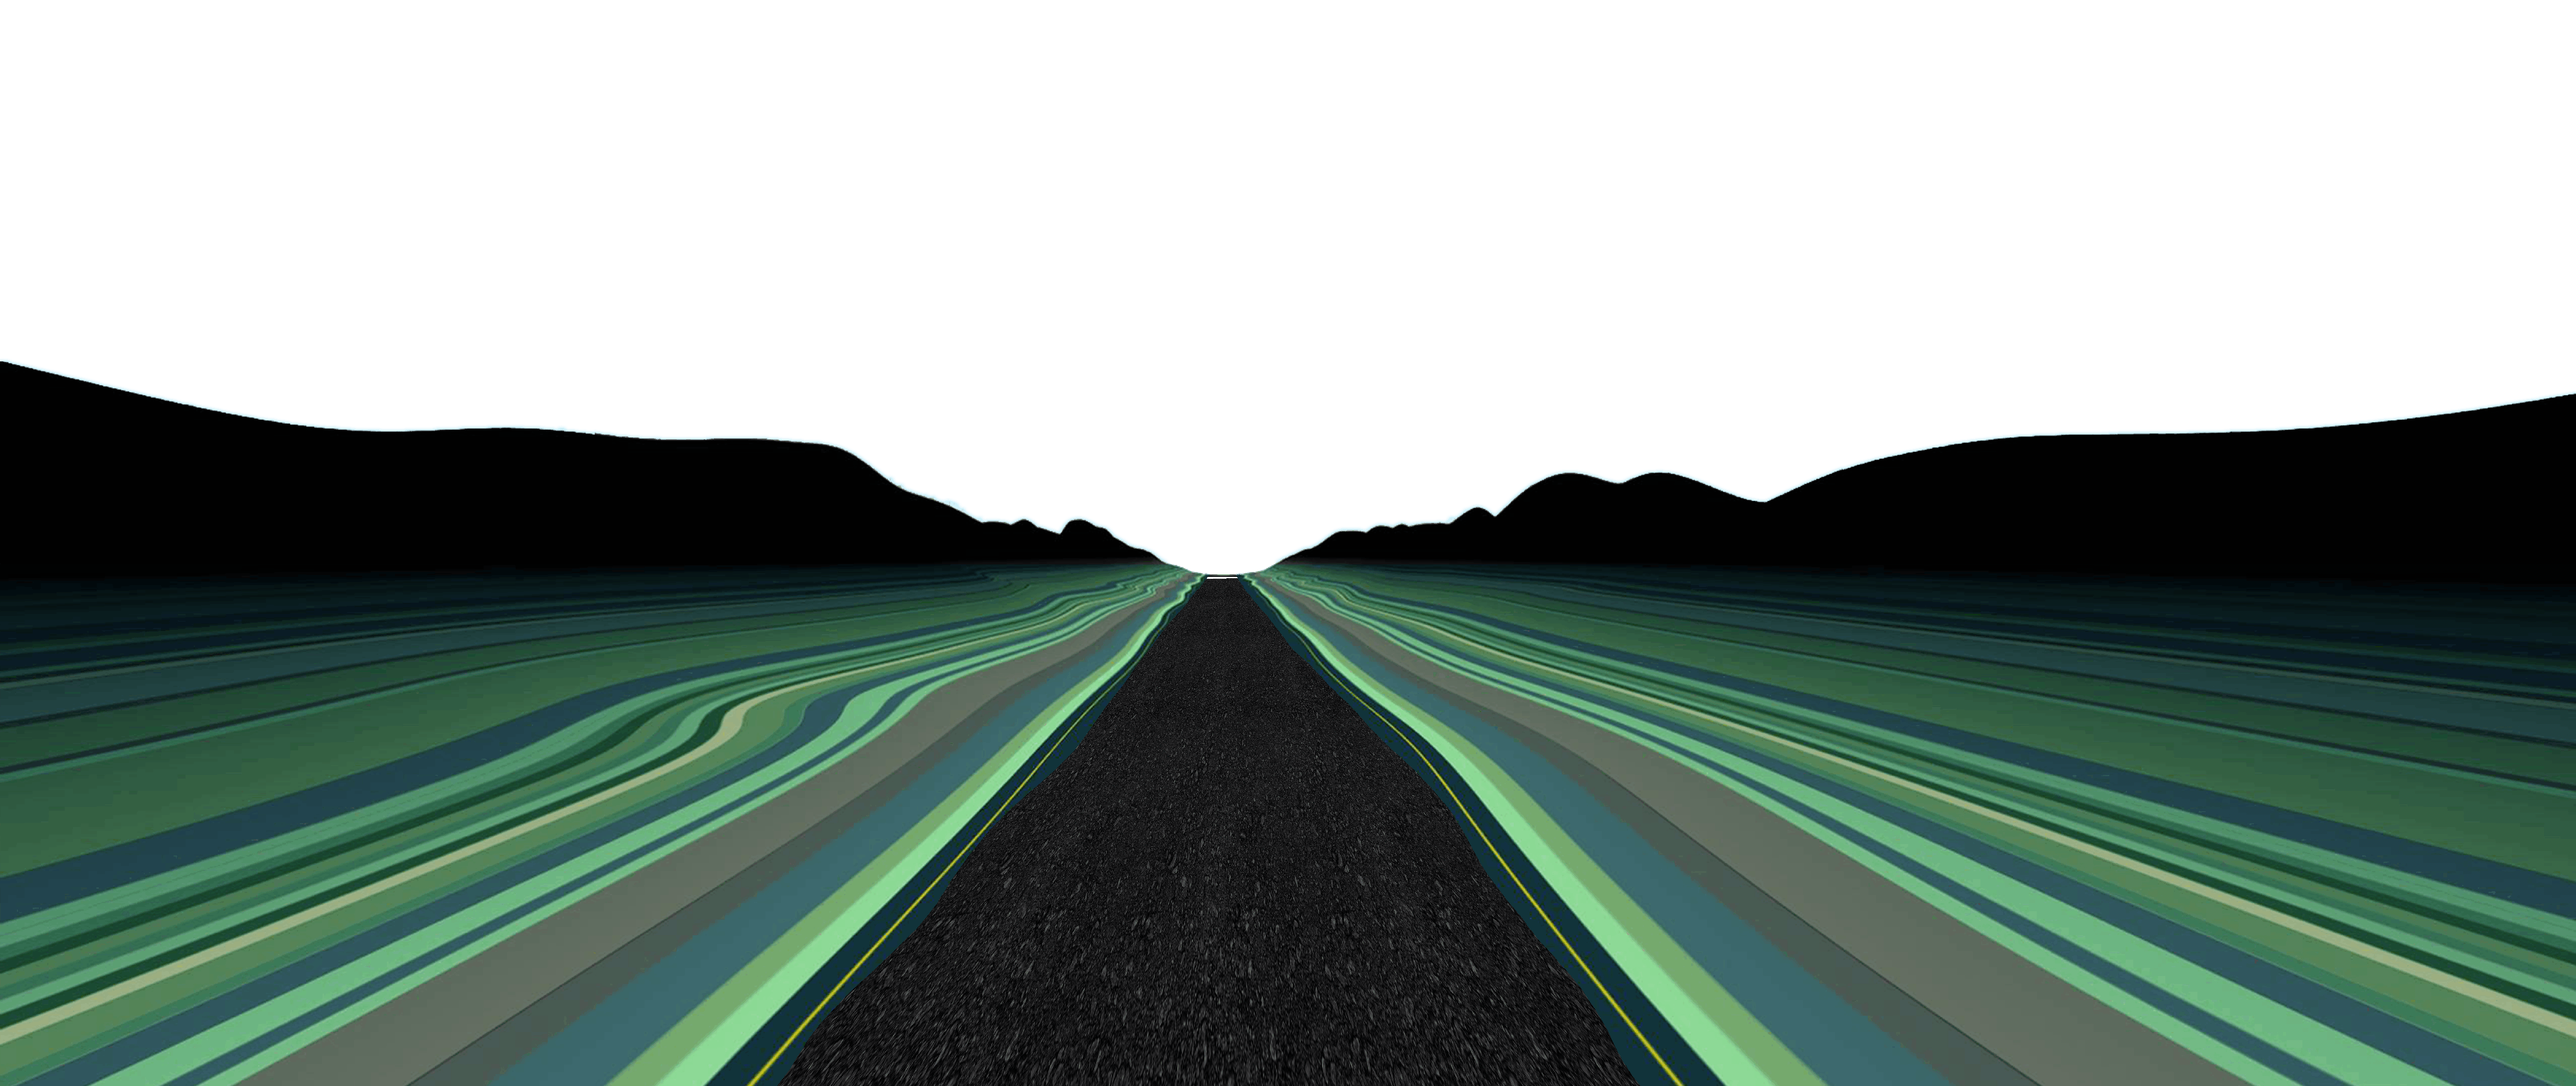
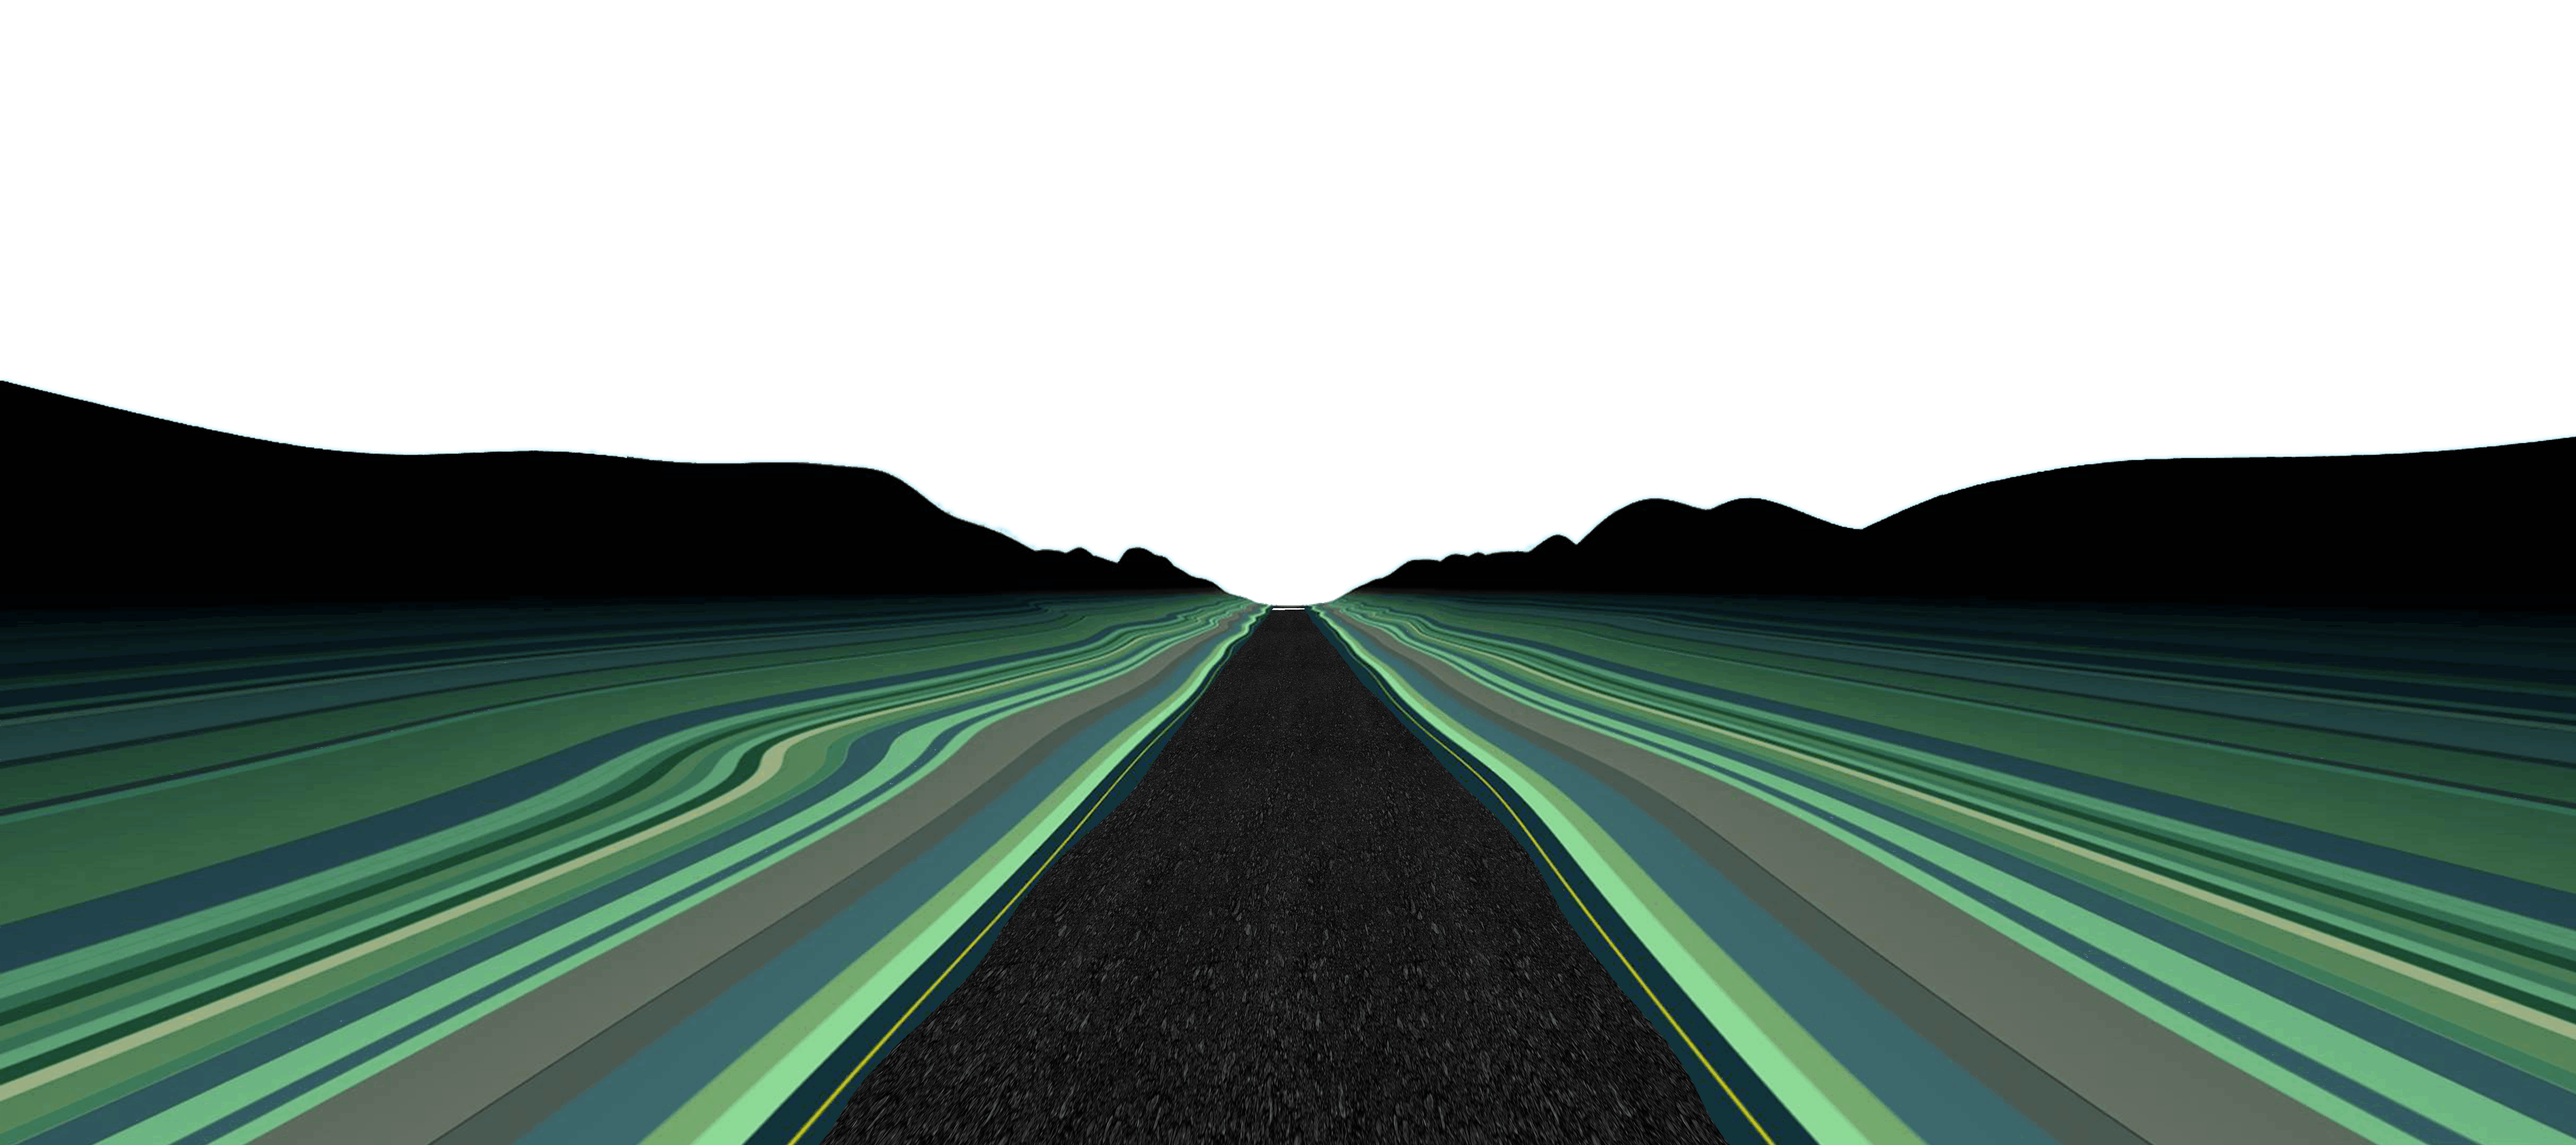
bkg fix

diff --git a/src/App.css b/src/App.css
@@ -613,12 +613,13 @@ from { opacity: 0%;
   background-image: url('../src/img/scape.png');
   background-size: cover;
   background-repeat: no-repeat;
+  background-position: center;
   position:fixed;
-/* top:0; */
-/* left:0; */
-right:-20%;
+top:0;
+left:0;
+right:0;
 bottom:0;
-width:140%;
+width:100%;
 height:100%;
 display:block;
   z-index:-1;
